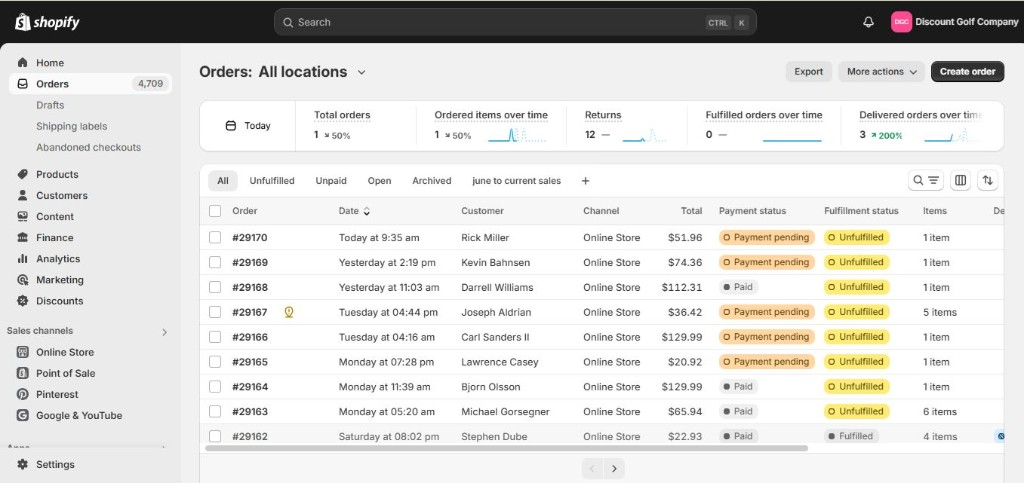
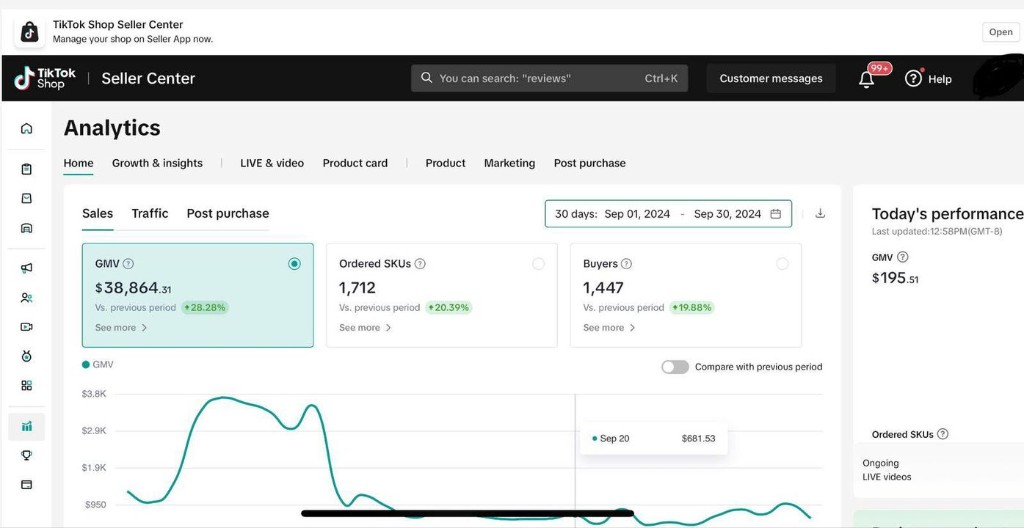
Partner results: fix card height aspect-4/3, replace #2 with TikTok Shop
Made-with: Cursor

diff --git a/app/ecomautomation/page.tsx b/app/ecomautomation/page.tsx
@@ -190,14 +190,14 @@ export default function EcomAutomationPage() {
           </h2>
           <div className="grid grid-cols-1 md:grid-cols-2 lg:grid-cols-3 gap-6 max-w-6xl mx-auto">
             {[1, 2, 3, 4, 5, 6].map((i) => (
-              <div key={i} className="bg-white rounded-2xl overflow-hidden shadow-xl border border-[#35c4dd]/20 flex items-center justify-center min-h-[180px]">
+              <div key={i} className="bg-white rounded-2xl overflow-hidden shadow-xl border border-[#35c4dd]/20 aspect-[4/3] flex items-center justify-center">
                 <Image
                   src={`/images/partner-results/result-${i}.png`}
                   alt={`Partner store result ${i}`}
                   width={480}
-                  height={320}
+                  height={360}
                   sizes="(max-width: 768px) 100vw, (max-width: 1024px) 50vw, 33vw"
-                  className="w-full h-auto object-contain"
+                  className="w-full h-full object-contain"
                   loading="lazy"
                 />
               </div>
